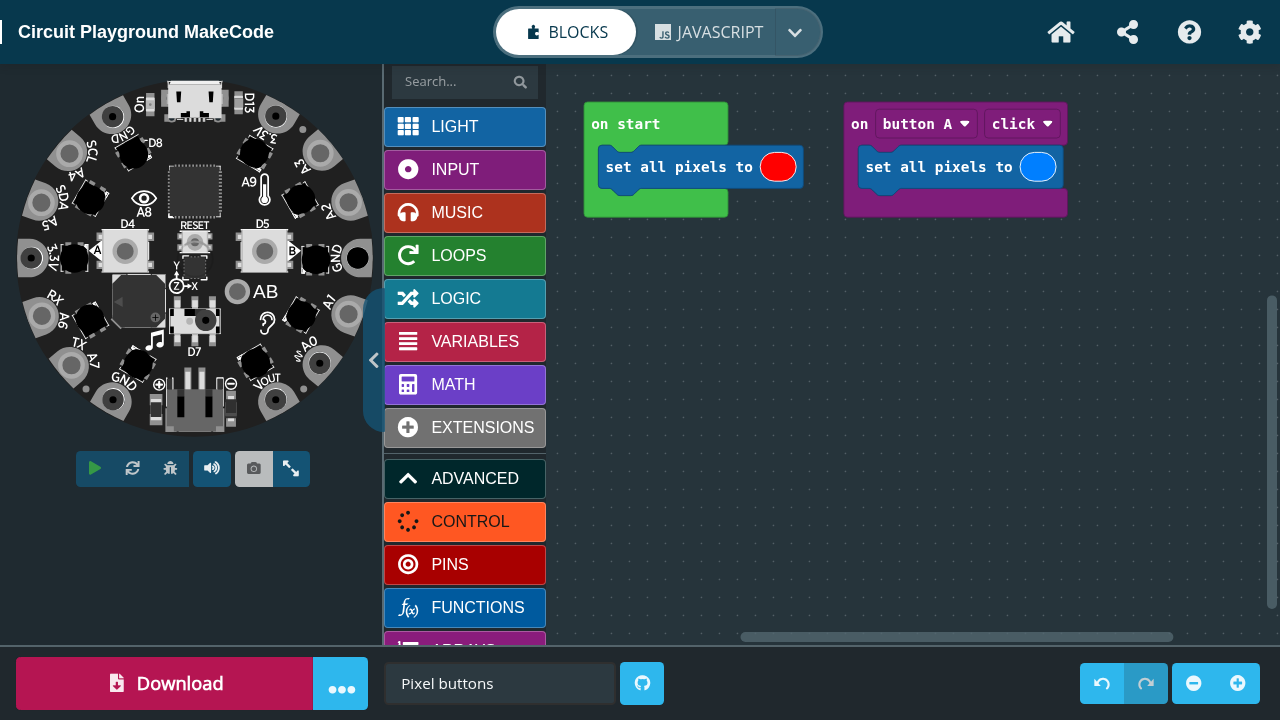
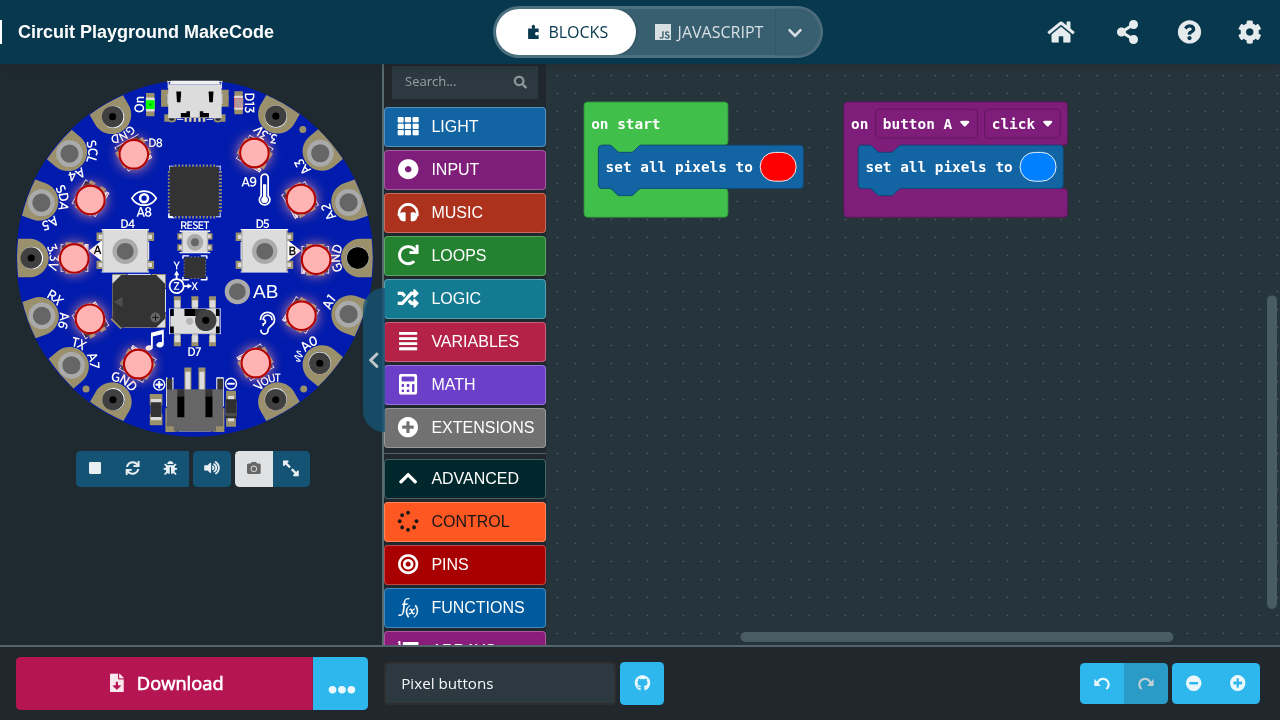
Show accurate board screenshots

Changed region(s): [[0.0, 0.0917, 0.3125, 0.7028]]

diff --git a/scripts/check-static-browser.js b/scripts/check-static-browser.js
@@ -151,18 +151,46 @@ async function waitForSimulatorFrame(page, timeout = 30000) {
 async function waitForSimulatorBoard(page, expectedBoardId, timeout = 30000) {
     const deadline = Date.now() + timeout;
     let lastState;
+    let stableSince = 0;
     while (Date.now() < deadline) {
-        const frame = page.frames().find(candidate => /simulator\.html/.test(candidate.url()));
-        if (frame) {
+        const frames = page.frames().filter(candidate => /simulator\.html/.test(candidate.url()));
+        for (const frame of frames) {
             try {
-                lastState = await frame.evaluate(() => ({
-                    boardId: window.pxsim?.runtime?.board?.boardDefinition?.id,
-                    hasRuntime: !!window.pxsim?.runtime,
-                    hasBoard: !!window.pxsim?.runtime?.board
-                }));
-                if (lastState.boardId === expectedBoardId) return frame;
+                const frameElement = await frame.frameElement();
+                const visible = await frameElement.evaluate(element => {
+                    const bounds = element.getBoundingClientRect();
+                    const topmost = document.elementFromPoint(
+                        bounds.left + bounds.width / 2,
+                        bounds.top + bounds.height / 2
+                    );
+                    return bounds.width > 0 && bounds.height > 0 &&
+                        getComputedStyle(element).visibility !== "hidden" &&
+                        topmost === element;
+                });
+                if (!visible) continue;
+                lastState = await frame.evaluate(() => {
+                    const board = window.pxsim?.runtime?.board?.boardDefinition;
+                    const image = board?.visual?.image || "";
+                    const domImage = document.querySelector("image")?.href?.baseVal || "";
+                    return {
+                        boardId: board?.id,
+                        hasRuntime: !!window.pxsim?.runtime,
+                        hasBoard: !!window.pxsim?.runtime?.board,
+                        blueBoardImage: /(?:%23|#)001bae/i.test(image) &&
+                            /(?:%23|#)001bae/i.test(domImage)
+                    };
+                });
+                const imageMatches = expectedBoardId === "adafruit-circuit-playground-bluefruit"
+                    ? lastState.blueBoardImage : !lastState.blueBoardImage;
+                if (lastState.boardId === expectedBoardId && imageMatches) {
+                    if (!stableSince) stableSince = Date.now();
+                    if (Date.now() - stableSince >= 1000) return frame;
+                } else {
+                    stableSince = 0;
+                }
             } catch (error) {
                 lastState = { detached: error.message };
+                stableSince = 0;
             }
         }
         await delay(100);
@@ -174,7 +202,7 @@ async function waitForSimulatorBoard(page, expectedBoardId, timeout = 30000) {
     })}`);
 }
 
-async function captureReadmeScreenshot(page, filename, source) {
+async function captureReadmeScreenshot(page, filename, source, boardId) {
     if (process.env.CAPTURE_README_SCREENSHOTS !== "1") return;
     const directory = path.join(workspace, "docs", "images");
     fs.mkdirSync(directory, { recursive: true });
@@ -188,7 +216,7 @@ async function captureReadmeScreenshot(page, filename, source) {
     await clickVisible(page, ".blocks-menuitem");
     await page.waitForFunction(() => /set\s+all\s+pixels\s+to/.test(document.body.innerText),
         { timeout: 30000 });
-    await delay(1000);
+    await waitForSimulatorBoard(page, boardId);
     await page.screenshot({ path: path.join(directory, filename), type: "png" });
     await clickVisible(page, ".javascript-menuitem");
     await page.waitForFunction(() => window.monaco && monaco.editor.getModels()
@@ -906,7 +934,8 @@ async function main() {
         }, marker);
         await delay(2000);
         await captureReadmeScreenshot(page, "editor-bluefruit.png",
-            `${marker}\nlight.setAll(0xff0000)\n`);
+            `${marker}\nlight.setAll(0xff0000)\n`,
+            "adafruit-circuit-playground-bluefruit");
 
         const publishedShare = await publishAndReopenProject(
             page, browser, browserName, origin, marker, "nrf52840"
@@ -941,7 +970,8 @@ async function main() {
         assert(/\bNETWORK\b/.test(cpxState.text), "CPX toolbox is missing its Network category");
         assert(cpxState.source.includes(marker), "board switch did not preserve JavaScript source");
         await captureReadmeScreenshot(page, "editor-express.png",
-            `${marker}\nlight.setAll(0xff0000)\n`);
+            `${marker}\nlight.setAll(0xff0000)\n`,
+            "adafruit-circuit-playground-express");
 
         await page.reload({ waitUntil: "networkidle2", timeout: 60000 });
         await page.waitForFunction(() => window.pxt && pxt.appTargetVariant === "samd21" &&

diff --git a/README.md b/README.md
@@ -3,14 +3,16 @@
 This project builds and hosts one modern, self-contained MakeCode editor for
 both Adafruit Circuit Playground boards:
 
-- Circuit Playground Express (CPX, SAMD21)
-- Circuit Playground Bluefruit (CPB, nRF52840)
+- [Circuit Playground Express](https://www.adafruit.com/product/3333) (CPX,
+  SAMD21)
+- [Circuit Playground Bluefruit](https://www.adafruit.com/product/4333) (CPB,
+  nRF52840)
 
 **Try the live editor: [makecode.jim.sh](https://makecode.jim.sh/)**
 
-| Circuit Playground Bluefruit | Circuit Playground Express |
+| Circuit Playground Express | Circuit Playground Bluefruit |
 | --- | --- |
-| ![A MakeCode Blocks project running in the Circuit Playground Bluefruit simulator](docs/images/editor-bluefruit.png) | ![The same MakeCode Blocks project running in the Circuit Playground Express simulator](docs/images/editor-express.png) |
+| ![A MakeCode Blocks project running in the Circuit Playground Express simulator](docs/images/editor-express.png) | ![The same MakeCode Blocks project running in the Circuit Playground Bluefruit simulator](docs/images/editor-bluefruit.png) |
 
 ## Why this exists
 
